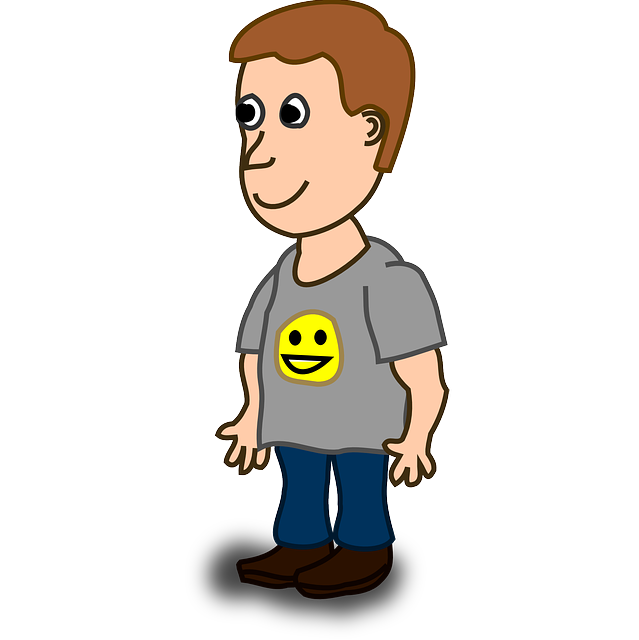
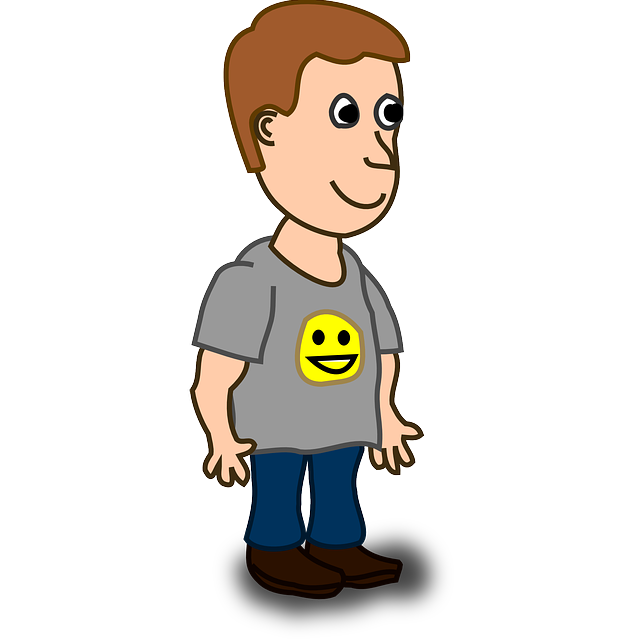
sprites rotate when they rotate. Fixes #34.

Changed region(s): [[0.2973, 0.0, 0.7136, 0.9688], [0.4757, 0.0625, 0.5055, 0.0938]]

diff --git a/appengine/js/heroes_common/hero.js b/appengine/js/heroes_common/hero.js
@@ -32,6 +32,26 @@ function getRandomColor() {
   return color;
 }
 
+function draw_rotated_image(context, image, x, y, width, height, angle)
+{
+    // save the current co-ordinate system
+    // before we screw with it
+    context.save();
+
+    // move to the middle of where we want to draw our image
+    context.translate(x, y);
+
+    // rotate around that point
+    context.rotate(-angle);
+
+    // draw it up and to the left by half the width
+    // and height of the image
+    context.drawImage(image, -width/2, -height/2, width, height);
+
+    // and restore the co-ords to how they were when we began
+    context.restore();
+}
+
 var chars = {};
 chars["eagle"] = new Image();
 chars["eagle"].src = "heroes/eagle.png";
@@ -73,8 +93,8 @@ SpriteLike.call(self, name, sprite_ide);
 // Draws this item to a given context.
 self.draw = function(ctx)
 {
-  ctx.drawImage(self.image, self.x - self.radius,
-    self.y - self.radius, self.radius * 2, self.radius * 2);
+  draw_rotated_image(ctx, self.image, self.x,
+    self.y, self.radius * 2, self.radius * 2, self.heading);
   self.draw_speech(ctx);
 }
 
